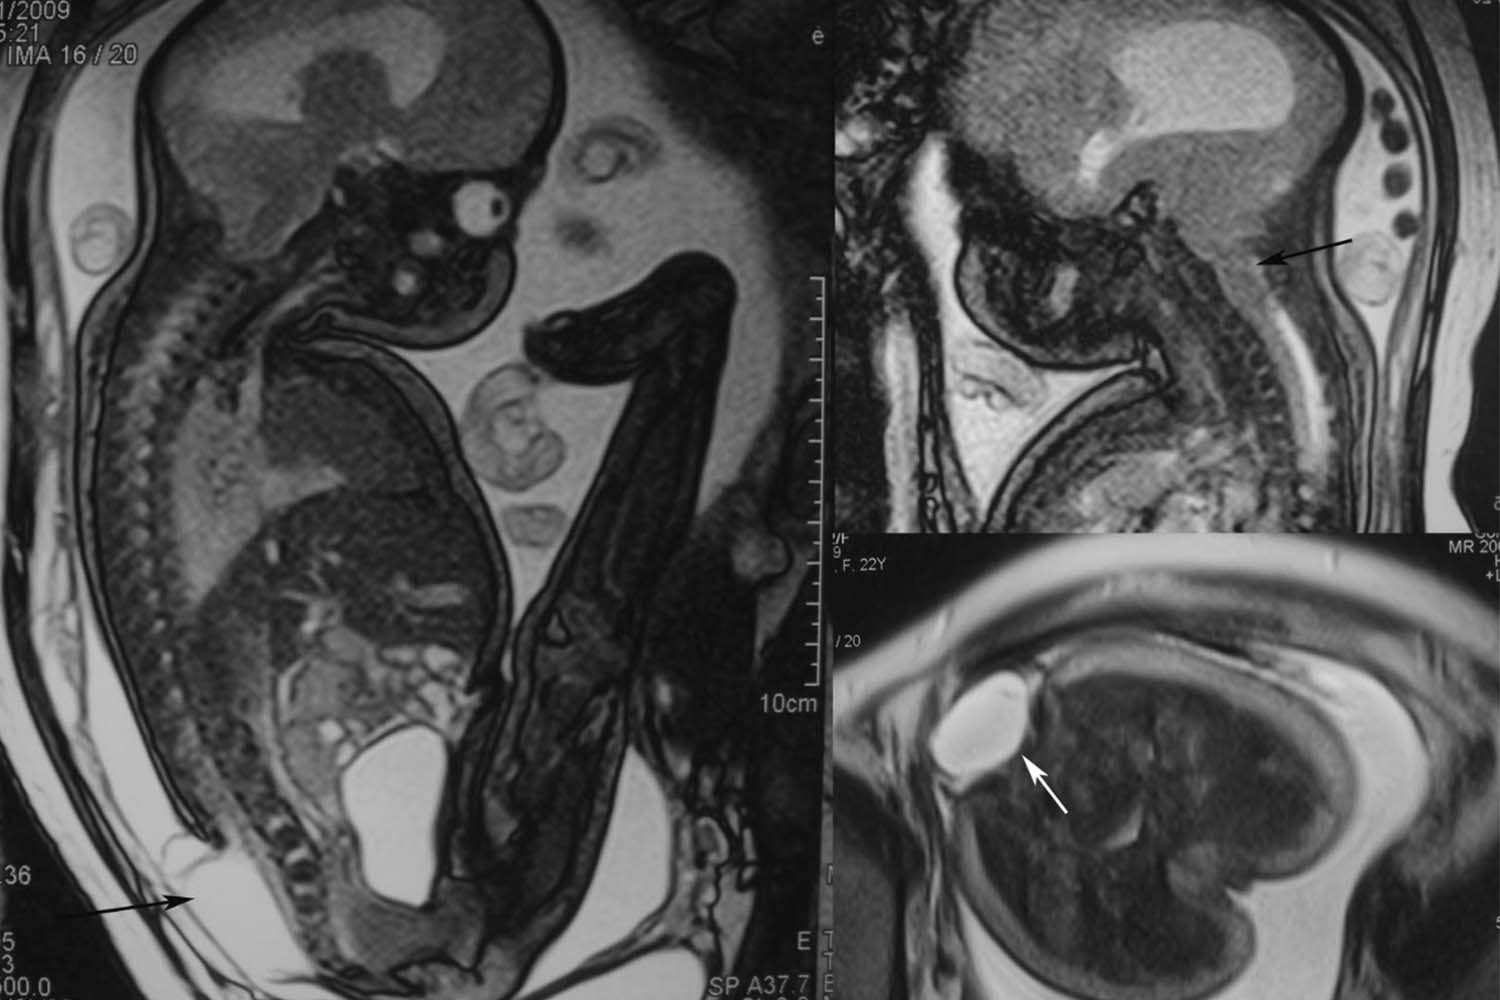
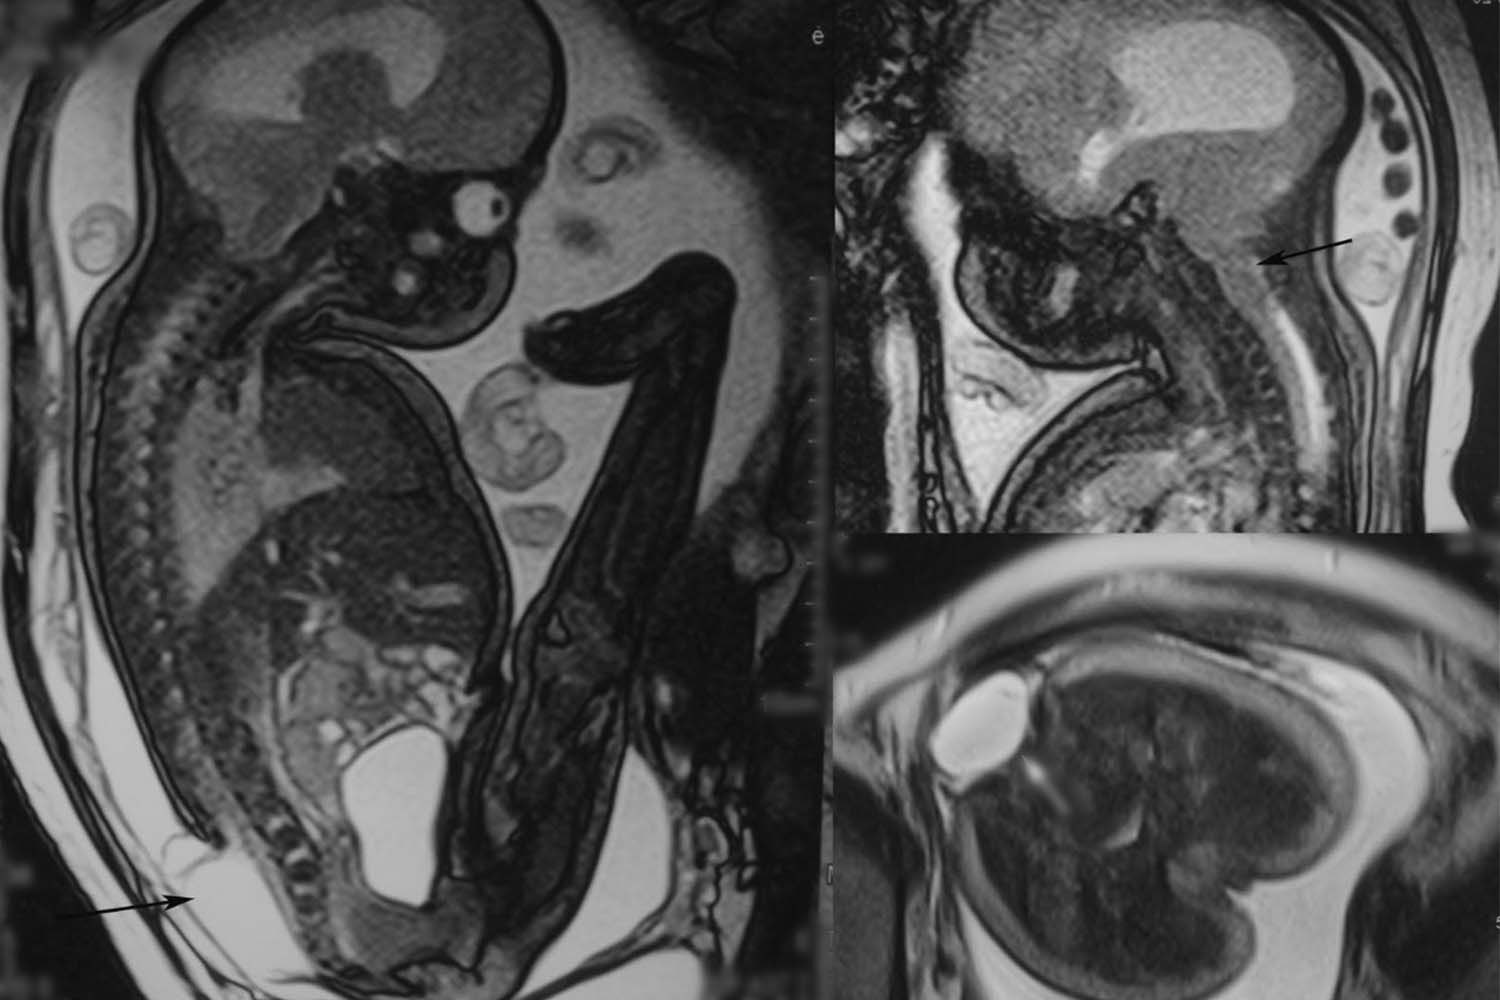
commit - update blur image
commit - update blur image

diff --git a/mrifetal.html b/mrifetal.html
@@ -116,19 +116,19 @@
                             <div id="myCarousel" class="carousel slide carousel-fade" data-bs-ride="carousel">
                                 <div class="carousel-inner">
                                     <div class="carousel-item active">
-                                        <img src="images/slider/slide5.jpg?rev=1" class="img-fluid " alt="">
+                                        <img src="images/slider/slide5.jpg?rev=2" class="img-fluid " alt="">
                                     </div>
 
                                     <div class="carousel-item">
-                                        <img src="images/slider/slide6.jpg?rev=1" class="img-fluid " alt="">
+                                        <img src="images/slider/slide6.jpg?rev=2" class="img-fluid " alt="">
                                     </div>
 
                                     <div class="carousel-item">
-                                        <img src="images/slider/slide7.jpg?rev=1" class="img-fluid " alt="">
+                                        <img src="images/slider/slide7.jpg?rev=2" class="img-fluid " alt="">
                                     </div>
 									
 									<div class="carousel-item">
-                                        <img src="images/slider/slide8.jpg?rev=1" class="img-fluid " alt="">
+                                        <img src="images/slider/slide8.jpg?rev=2" class="img-fluid " alt="">
                                     </div>
                                 </div>
                             </div>
@@ -160,11 +160,11 @@
                     <div class="row">
 
                         <div class="col-lg-6 col-6 ps-0">
-                            <img src="images/gallery/gallery3.jpg?rev=1" class="img-fluid galleryImage" alt="" >
+                            <img src="images/gallery/gallery3.jpg?rev=2" class="img-fluid galleryImage" alt="" >
                         </div>
 
                         <div class="col-lg-6 col-6 pe-0">
-                            <img src="images/gallery/gallery4.jpg?rev=1" class="img-fluid galleryImage" alt="" >
+                            <img src="images/gallery/gallery4.jpg?rev=2" class="img-fluid galleryImage" alt="" >
                         </div>
 
                     </div>

diff --git a/index.html b/index.html
@@ -473,9 +473,9 @@ https://templatemo.com/tm-566-medic-care
 							
 							<div class="row g-0 justify-content-end justify-content-md-around align-items-start timeline-nodes">
                                 <div class="col-9 col-md-5 me-md-4 me-lg-0 order-3 order-md-1 timeline-content bg-white shadow-lg">
-                                    <h3 class=" text-light" style="font-size: 20px;">Konsultasi Anastesi</h3>
+                                    <h3 class=" text-light" style="font-size: 20px;">Konsultasi Anestesi</h3>
 
-                                    <p>Jika pemeriksaan MRI dilakukan dengan bantuan anestesi, pasien akan diminta untuk melakukan konsultasi dengan dokter anestesi dipoli anastesi
+                                    <p>Jika pemeriksaan MRI dilakukan dengan bantuan anestesi, pasien akan diminta untuk melakukan konsultasi dengan dokter anestesi dipoli anestesi
 									</p>
 																	
                                 </div>
